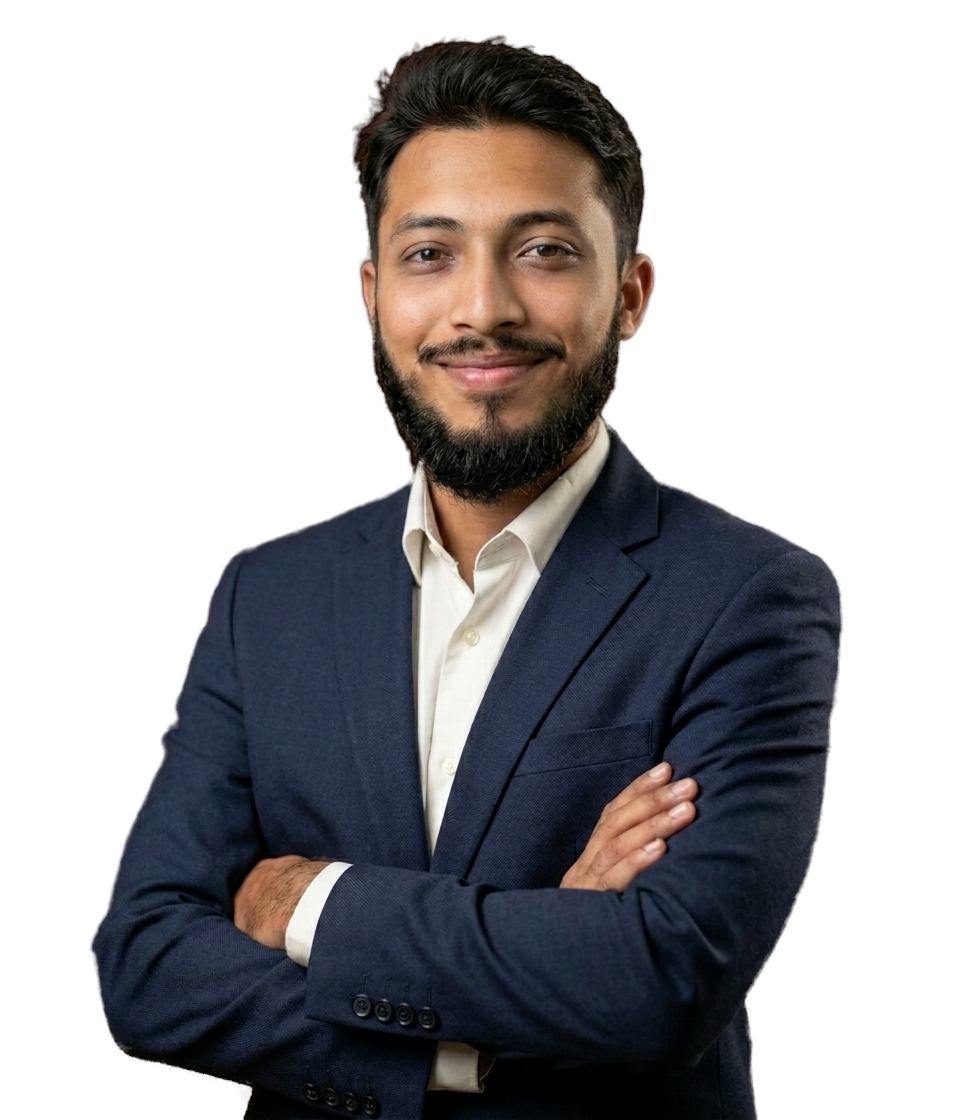
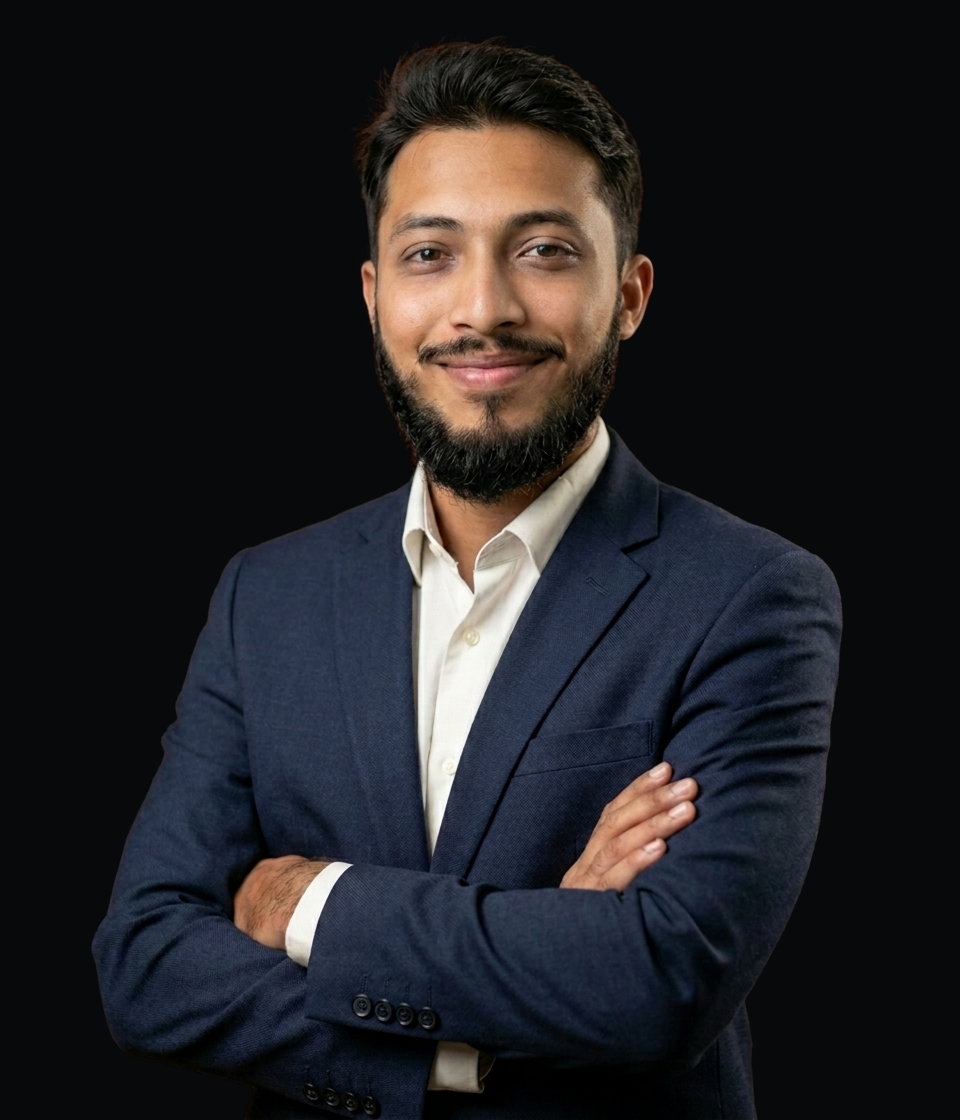
v5.7 - UI changres

diff --git a/assets/css/styles.css b/assets/css/styles.css
@@ -231,13 +231,7 @@ textarea {
 }
 
 .bg-grid {
-    background-image:
-        linear-gradient(to right, var(--line-soft) 1px, transparent 1px),
-        linear-gradient(to bottom, var(--line-soft) 1px, transparent 1px);
-    background-size: 76px 76px;
-    mask-image: radial-gradient(ellipse 90% 60% at 50% 0%, #000 20%, transparent 78%);
-    -webkit-mask-image: radial-gradient(ellipse 90% 60% at 50% 0%, #000 20%, transparent 78%);
-    opacity: .8;
+    display: none;
 }
 
 .bg-glow {
@@ -910,8 +904,14 @@ h4 {
     inset: 0 0 auto;
     z-index: 100;
     padding-block: .9rem;
-    transition: background .4s var(--ease), border-color .4s, padding .4s;
+    transition: background .4s var(--ease), border-color .4s, padding .4s, transform .5s var(--ease);
     border-bottom: 1px solid transparent;
+}
+
+/* hide-on-scroll-down: slide the whole bar up out of view (kept in flow for
+   the nav) and bring it back on scroll-up */
+#site-header.hide {
+    transform: translateY(-100%);
 }
 
 #site-header.stuck {
@@ -2477,9 +2477,9 @@ h4 {
 
 .tst {
     padding: 1.6rem 1.5rem;
-    display: grid;
+    display: flex;
+    flex-direction: column;
     gap: 1.1rem;
-    align-content: start;
     position: relative;
     transition: box-shadow 0.5s ease, transform 0.5s ease;
     background: var(--surface);
@@ -2574,30 +2574,35 @@ h4 {
     }
 }
 
-/* ── Quote mark ───────────────────────────────────────────── */
+/* ── Testimonial stars (top-left) ─────────────────────────── */
 
-.tst .quote-mark {
-    font-family: var(--ff-display);
-    font-size: 3.6rem;
-    line-height: 0.6;
-    color: var(--accent);
-    opacity: 0.3;
-    text-shadow: 0 4px 30px var(--accent-dim);
-    transition: opacity 0.4s ease, text-shadow 0.4s ease;
+.tst > .stars {
+    margin: 0 0 .85rem;
+    display: inline-flex;
+    gap: .22em;
+    align-items: center;
+    font-size: .78rem;
+    color: #f5b83d;
+    text-shadow: 0 0 24px rgba(245, 184, 61, .35);
 }
 
-.tst:hover .quote-mark {
-    opacity: 0.5;
-    text-shadow: 0 8px 50px color-mix(in srgb, var(--accent) 20%, transparent);
+.tst > .stars .fa-regular {
+    color: var(--line-strong);
+    opacity: .6;
+    text-shadow: none;
 }
 
 /* ── Testimonial text ────────────────────────────────────── */
 
 .tst blockquote {
-    font-size: 0.93rem;
+    font-size: 0.94rem;
     color: var(--text);
-    font-weight: 300;
-    line-height: 1.7;
+    font-weight: 340;
+    line-height: 1.75;
+    margin: 0;
+    padding-left: 1.05rem;
+    border-left: 2px solid var(--accent-line);
+    min-height: 5.5em;
 }
 
 /* ── Author info ─────────────────────────────────────────── */
@@ -2605,52 +2610,60 @@ h4 {
 .tst-foot {
     display: flex;
     align-items: center;
-    gap: 0.8rem;
-    padding-top: 1rem;
+    gap: 0.85rem;
+    margin-top: .35rem;
+    padding-top: 1.1rem;
     border-top: 1px solid var(--line-soft);
 }
 
 .tst-foot img,
 .tst-foot .av-fallback {
-    width: 42px;
-    height: 42px;
+    width: 46px;
+    height: 46px;
     border-radius: 50%;
     object-fit: cover;
     background: var(--surface-2);
     display: grid;
     place-items: center;
     font-family: var(--ff-mono);
-    font-size: 0.7rem;
+    font-size: 0.75rem;
+    font-weight: 600;
     color: var(--accent);
-    border: 1px solid var(--line);
     flex-shrink: 0;
 }
 
 .tst-who {
     display: grid;
-    line-height: 1.35;
+    line-height: 1.4;
+    gap: .1rem;
+    min-width: 0;
 }
 
 .tst-who b {
-    font-size: 0.9rem;
+    font-size: 0.92rem;
     font-weight: 600;
     color: var(--text);
 }
 
 .tst-who .role-part {
-    font-size: 0.75rem;
-    color: var(--faint);
+    font-size: 0.76rem;
+    color: var(--muted);
     display: block;
+    overflow: hidden;
+    text-overflow: ellipsis;
+    white-space: nowrap;
 }
 
 .tst-who .role-country {
-    font-size: 0.75rem;
+    font-size: 0.72rem;
     color: var(--faint);
     display: block;
 }
 
 /* ── Stars ────────────────────────────────────────────────── */
 
+/* Inside a testimonial the stars sit at the top-left of the card, not the
+   bottom-right; other uses (.proj-star etc.) keep their default layout. */
 .stars {
     margin-left: auto;
     color: var(--accent);
@@ -2715,19 +2728,36 @@ h4 {
 }
 
 @media (max-width: 620px) {
+    /* make the testimonial card compact so stars → text → author sit snugly */
+    .tst {
+        padding: 1.15rem 1.1rem;
+        gap: .8rem;
+    }
+
+    .tst > .stars {
+        margin-bottom: .6rem;
+    }
+
+    .tst blockquote {
+        font-size: .9rem;
+        line-height: 1.6;
+        min-height: 0;
+        padding-left: .95rem;
+    }
+
     .tst-foot {
         display: grid;
         grid-template-columns: auto 1fr;
-        gap: 0.3rem 0.8rem;
-        align-items: start;
-        padding-top: 1rem;
+        gap: 0.15rem 0.8rem;
+        align-items: center;
+        padding-top: .85rem;
         border-top: 1px solid var(--line-soft);
     }
 
     .tst-foot img,
     .tst-foot .av-fallback {
-        width: 48px;
-        height: 48px;
+        width: 44px;
+        height: 44px;
         font-size: 0.8rem;
         grid-row: 1 / 4;
         grid-column: 1;
@@ -2739,24 +2769,24 @@ h4 {
         grid-column: 2;
         grid-row: 1;
         display: grid;
-        gap: 0.05rem;
+        gap: 0.1rem;
         padding-top: 0.1rem;
     }
 
     .tst-who b {
-        font-size: 0.95rem;
+        font-size: 0.92rem;
         font-weight: 600;
         display: block;
     }
 
     .tst-who .role-part {
-        font-size: 0.8rem;
+        font-size: 0.76rem;
         display: block;
         color: var(--faint);
     }
 
     .tst-who .role-country {
-        font-size: 0.8rem;
+        font-size: 0.76rem;
         display: block;
         color: var(--faint);
     }
@@ -3743,6 +3773,22 @@ a.contact-line:hover {
 
     .faq-a p {
         padding-left: 1.3rem;
+    }
+
+    /* center every footer group on mobile */
+    #site-footer .foot-top,
+    #site-footer .foot-bot {
+        flex-direction: column;
+        justify-content: center;
+        text-align: center;
+    }
+
+    #site-footer .foot-brand {
+        align-items: center;
+    }
+
+    #site-footer .social-row {
+        justify-content: center;
     }
 }
 

diff --git a/assets/js/site.js b/assets/js/site.js
@@ -2454,14 +2454,12 @@ function tstHTML(n) {
     var cards = allCards.map(function (t, i) {
         var r = Math.max(0, Math.min(5, Number(t.rating) || 5));
         return '<article class="card tst" data-reveal style="--d:' + (i % 3 * 90) + 'ms">' +
-            '<span class="quote-mark">&ldquo;</span>' +
+            starsHTML(r) +
             '<blockquote>' + esc(t.quote) + '</blockquote>' +
             '<div class="tst-foot">' + avatar(t.avatar, t.name) +
             '<div class="tst-who"><b>' + esc(t.name) + '</b>' +
             (t.role || t.project ? formatRole(t.role || t.project) : '') +
-            '</div>' +
-            starsHTML(r) +
-            '</div></article>';
+            '</div></div></article>';
     }).join("");
 
     // Check if motion preference is reduced
@@ -2477,14 +2475,12 @@ function tstHTML(n) {
             list.map(function (t, i) {
                 var r = Math.max(0, Math.min(5, Number(t.rating) || 5));
                 return '<article class="card tst" data-reveal style="--d:' + (i * 70) + 'ms">' +
-                    '<span class="quote-mark">&ldquo;</span>' +
+                    starsHTML(r) +
                     '<blockquote>' + esc(t.quote) + '</blockquote>' +
                     '<div class="tst-foot">' + avatar(t.avatar, t.name) +
                     '<div class="tst-who"><b>' + esc(t.name) + '</b>' +
                     (t.role || t.project ? formatRole(t.role || t.project) : '') +
-                    '</div>' +
-                    starsHTML(r) +
-                    '</div></article>';
+                    '</div></div></article>';
             }).join("") +
             '</div></div></section>';
     }
@@ -2672,10 +2668,7 @@ function renderFooter() {
         '<div class="social-row">' + socialHTML(false) + '</div>' +
         '</div>' +
         '<div class="foot-bot">' +
-        '<span>' + esc(cfg("copyrightText")) + '</span>' +
-        '<span class="foot-status"><span class="status-dot"></span>' +
-        esc(cfg("statusText", "")) + (cfg("versionLabel") ? ' · ' + esc(cfg("versionLabel")) : '') +
-        '</span></div></div>';
+        '<span>' + esc(cfg("copyrightText")) + '</span></div></div>';
 }
 
 /* ==========================================================================
@@ -2967,10 +2960,32 @@ function scrollSpy() {
 /* ── Header, progress bar, back-to-top ───────────────────────────────── */
 var TT_C = 2 * Math.PI * 19;            // ring circumference (matches the SVG)
 var ttFill = document.getElementById("tt-fill");
+var HDR_LAST = 0;                       // last scroll position, for direction
+var HDR_LAST_DIR = 0;                   // 1 = down, -1 = up, 0 = unknown
+var HDR_TICKS = 0;                      // consecutive samples in the same direction
 
 function onScroll() {
     var y = window.scrollY || document.documentElement.scrollTop;
-    $("#site-header").classList.toggle("stuck", y > 24);
+    var h = document.getElementById("site-header");
+    var stuck = y > 24;
+    h.classList.toggle("stuck", stuck);
+
+    /* Slide the bar away while scrolling down (content is being read), and
+       bring it back the moment the user scrolls up — or returns near the
+       top. Requires a couple of samples in the same direction so a jittery
+       wheel/pull doesn't flicker it. */
+    var dir = y > HDR_LAST + 2 ? 1 : (y < HDR_LAST - 2 ? -1 : 0);
+    HDR_LAST = y;
+    if (dir === 0) { HDR_TICKS += 1; }
+    else if (dir === HDR_LAST_DIR) { HDR_TICKS += 1; }
+    else { HDR_LAST_DIR = dir; HDR_TICKS = 1; }
+
+    if (stuck && HDR_LAST_DIR === 1 && HDR_TICKS >= 2) {
+        h.classList.add("hide");
+    } else if (HDR_LAST_DIR === -1 || !stuck) {
+        h.classList.remove("hide");
+    }
+
     $("#to-top").classList.toggle("show", y > 700);
     $("#to-top").hidden = false;
 
